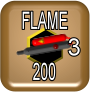
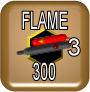
fix

Changed region(s): [[0.3556, 0.6739, 0.4667, 0.8913], [0.5333, 0.8478, 0.5556, 0.8696]]

diff --git a/td-racing/core/src/com/mygdx/game/gamestate/state/PlayState.java b/td-racing/core/src/com/mygdx/game/gamestate/state/PlayState.java
@@ -85,7 +85,7 @@ public class PlayState extends GameState implements CollisionCallbackInterface {
 	 * Time since last physic Steps
 	 */
 
-	int currentwave = 0;
+	int currentwave = 1;
 
 	boolean infiniteenemies = false;
 
@@ -116,7 +116,7 @@ public class PlayState extends GameState implements CollisionCallbackInterface {
 
 	public PlayState(GameStateManager gameStateManager) {
 		super(gameStateManager);
-
+		MainGame.highscoreFont.getData().setScale(0.10f);
 		scoreBoard = new ScoreBoard(this);
 		scoreBoard.reset(0);
 
@@ -212,7 +212,10 @@ public class PlayState extends GameState implements CollisionCallbackInterface {
 
 		pitStop.setPosition(100, 100);
 
+
 		loadLevel(2);
+
+		
 		backgroundMusic = Gdx.audio.newMusic(Gdx.files.internal("sounds/zombiecar3.wav"));
 		backgroundMusic.setLooping(true);
 		backgroundMusic.setVolume(0.4f);
@@ -232,11 +235,13 @@ public class PlayState extends GameState implements CollisionCallbackInterface {
 			map = new MainMap("track2", world, finishline.body);
 			map.setSpawn(new Vector2(230, 50));
 			scurrenttrack = strack2;
+			turmmenu.tower2unlocked=true;
 			break;
 		case 3:
 			map = new MainMap("track3", world, finishline.body);
 			map.setSpawn(new Vector2(220, 50));
 			scurrenttrack = strack3;
+			turmmenu.tower3unlocked=true;
 			break;
 
 		default:
@@ -522,8 +527,11 @@ public class PlayState extends GameState implements CollisionCallbackInterface {
 		scoreBoard.draw(spriteBatch);
 
 		turmmenu.draw(spriteBatch);
-		//MainGame.highscoreFont.(spriteBatch,wavetext,10,10);
-		spriteBatch.end();
+		if(timeforwavetext>0) {
+		MainGame.highscoreFont.draw(spriteBatch,wavetext,20,25);
+		
+		timeforwavetext=timeforwavetext-Gdx.graphics.getDeltaTime();
+		}spriteBatch.end();
 
 		if (debugBox2D)
 			debugRender.render(world, camera.combined);
@@ -591,6 +599,7 @@ public class PlayState extends GameState implements CollisionCallbackInterface {
 		Enemy_bicycle.deadTexture.dispose();
 		backgroundMusic.dispose();
 		carsound.dispose();
+		MainGame.highscoreFont.getData().setScale(10f);
 	}
 
 	@Override
@@ -743,6 +752,11 @@ public class PlayState extends GameState implements CollisionCallbackInterface {
 			if (currentwave > totalwaves)
 				LevelVictory();
 			else {
+				wavetext="WAVE "+currentwave;
+				if(currentwave==totalwaves){
+					wavetext="FINAL WAVE";
+					timeforwavetext=2;
+				}
 				scoreBoard.setWaveNumber(currentwave);
 				System.out.println("Starte Wave" + currentwave);
 				switch (currentwave) {
@@ -756,11 +770,12 @@ public class PlayState extends GameState implements CollisionCallbackInterface {
 					break;
 				case 2:
 					currentEnemyWaves.addAll(EnemyWaveEntry.createEnemyEntries(map.getSpawn(),
-							(int) scoreBoard.getTime() + 5, 60, 1f, 15, 4f, 0, 0));
+							(int) scoreBoard.getTime() + 5, 10, 0.2f, 2, 1f, 0, 0.0f));
 					currentEnemyWaves.addAll(EnemyWaveEntry.createEnemyEntries(map.getSpawn(),
-							(int) scoreBoard.getTime() + 20, 60, 0.5f, 15, 4f, 0, 0));
+							(int) scoreBoard.getTime() + 15, 10, 0.2f, 2, 1f, 0, 0.0f));
 					currentEnemyWaves.addAll(EnemyWaveEntry.createEnemyEntries(map.getSpawn(),
-							(int) scoreBoard.getTime() + 25, 60, 0.2f, 15, 4f, 0, 0));
+							(int) scoreBoard.getTime() + 25, 10, 0.2f, 2, 1f, 0, 0.0f));
+					
 					break;
 				case 3:
 					currentEnemyWaves.addAll(EnemyWaveEntry.createEnemyEntries(map.getSpawn(),

diff --git a/td-racing/core/src/com/mygdx/game/objects/tower/FireTower.java b/td-racing/core/src/com/mygdx/game/objects/tower/FireTower.java
@@ -21,7 +21,7 @@ public class FireTower extends Tower {
 	public Sprite sflame;
 	public static Sound soundShoot;
 	public static final int range = 7;
-	public static int costTower = 200;
+	public static int costTower = 300;
 	World w;
 	Array<Flame> flames;
 	public FireTower(final float xPosition, final float yPosition, final Array<Enemy> enemies, World w) {
@@ -34,7 +34,7 @@ public class FireTower extends Tower {
 		this.maxHealth = -1;
 		this.speed = 0.05f;
 		this.firingSpriteTime = 0.2f;
-		this.power = 0.1f;
+		this.power = 0.2f;
 		this.turnspeed = 700;
 		this.permanentsound = true;
 		this.cost = FireTower.costTower;

diff --git a/td-racing/core/src/com/mygdx/game/TurmMenu.java b/td-racing/core/src/com/mygdx/game/TurmMenu.java
@@ -10,11 +10,11 @@ import com.mygdx.game.objects.tower.LaserTower;
 import com.mygdx.game.objects.tower.MGTower;
 
 public class TurmMenu {
-	boolean tower1unlocked = true;
-	boolean tower2unlocked = true;
-	boolean tower3unlocked = true;
-	boolean tower4unlocked = true;
-	boolean tower5unlocked = false;
+	public boolean tower1unlocked = true;
+	public boolean tower2unlocked = false;
+	public boolean tower3unlocked = false;
+	public boolean tower4unlocked = false;
+	public boolean tower5unlocked = false;
 
 	boolean tower1selected = false;
 	boolean tower2selected = false;
